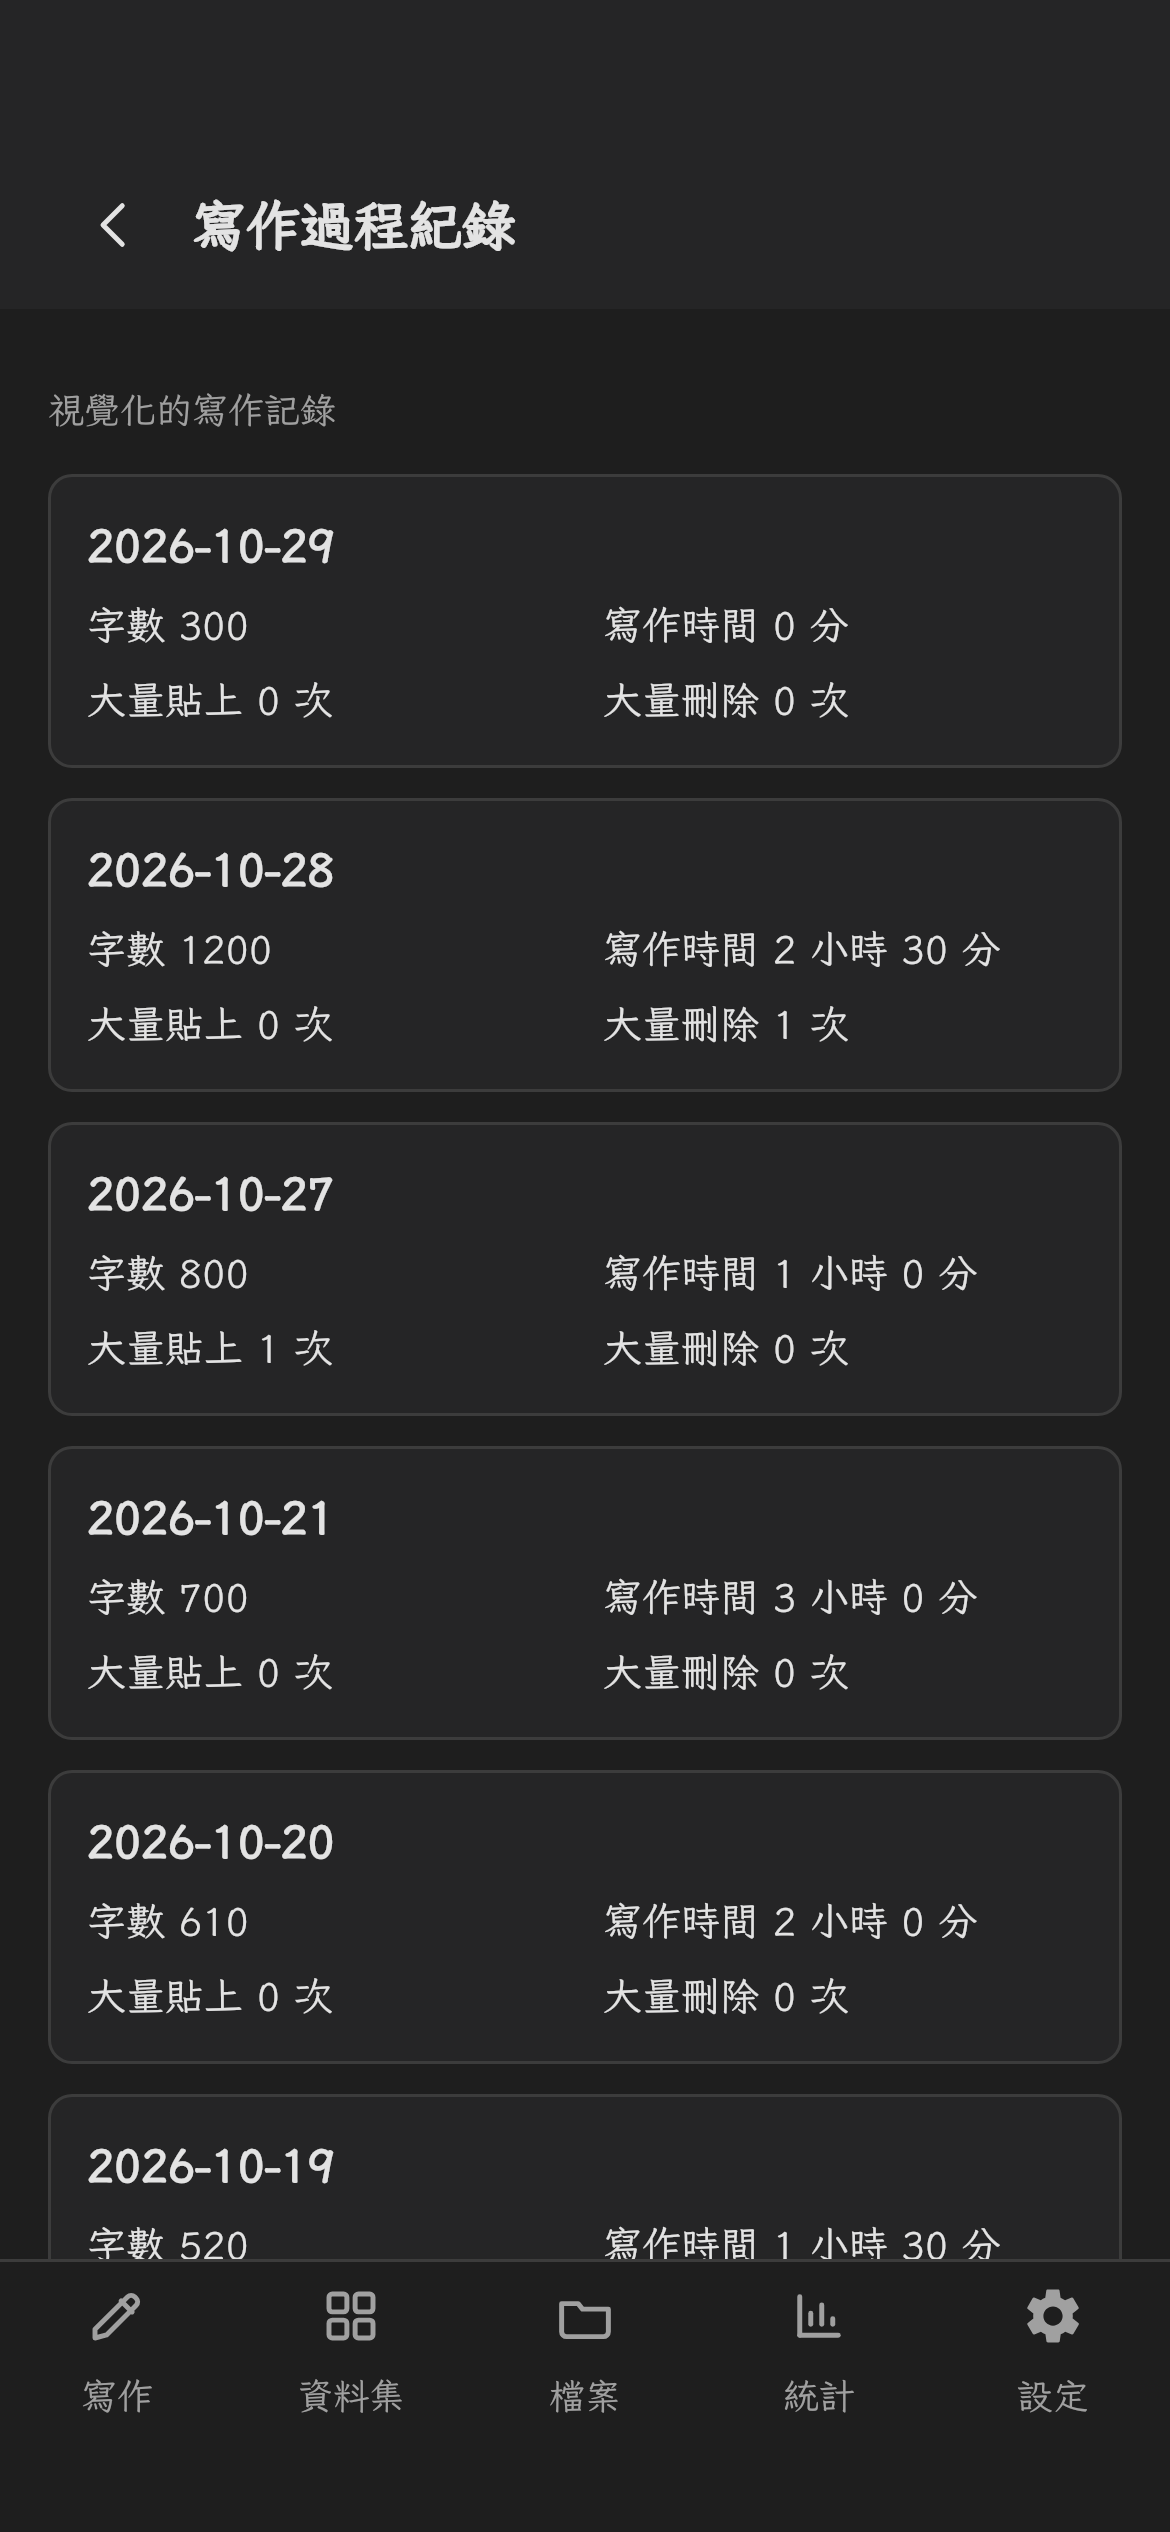
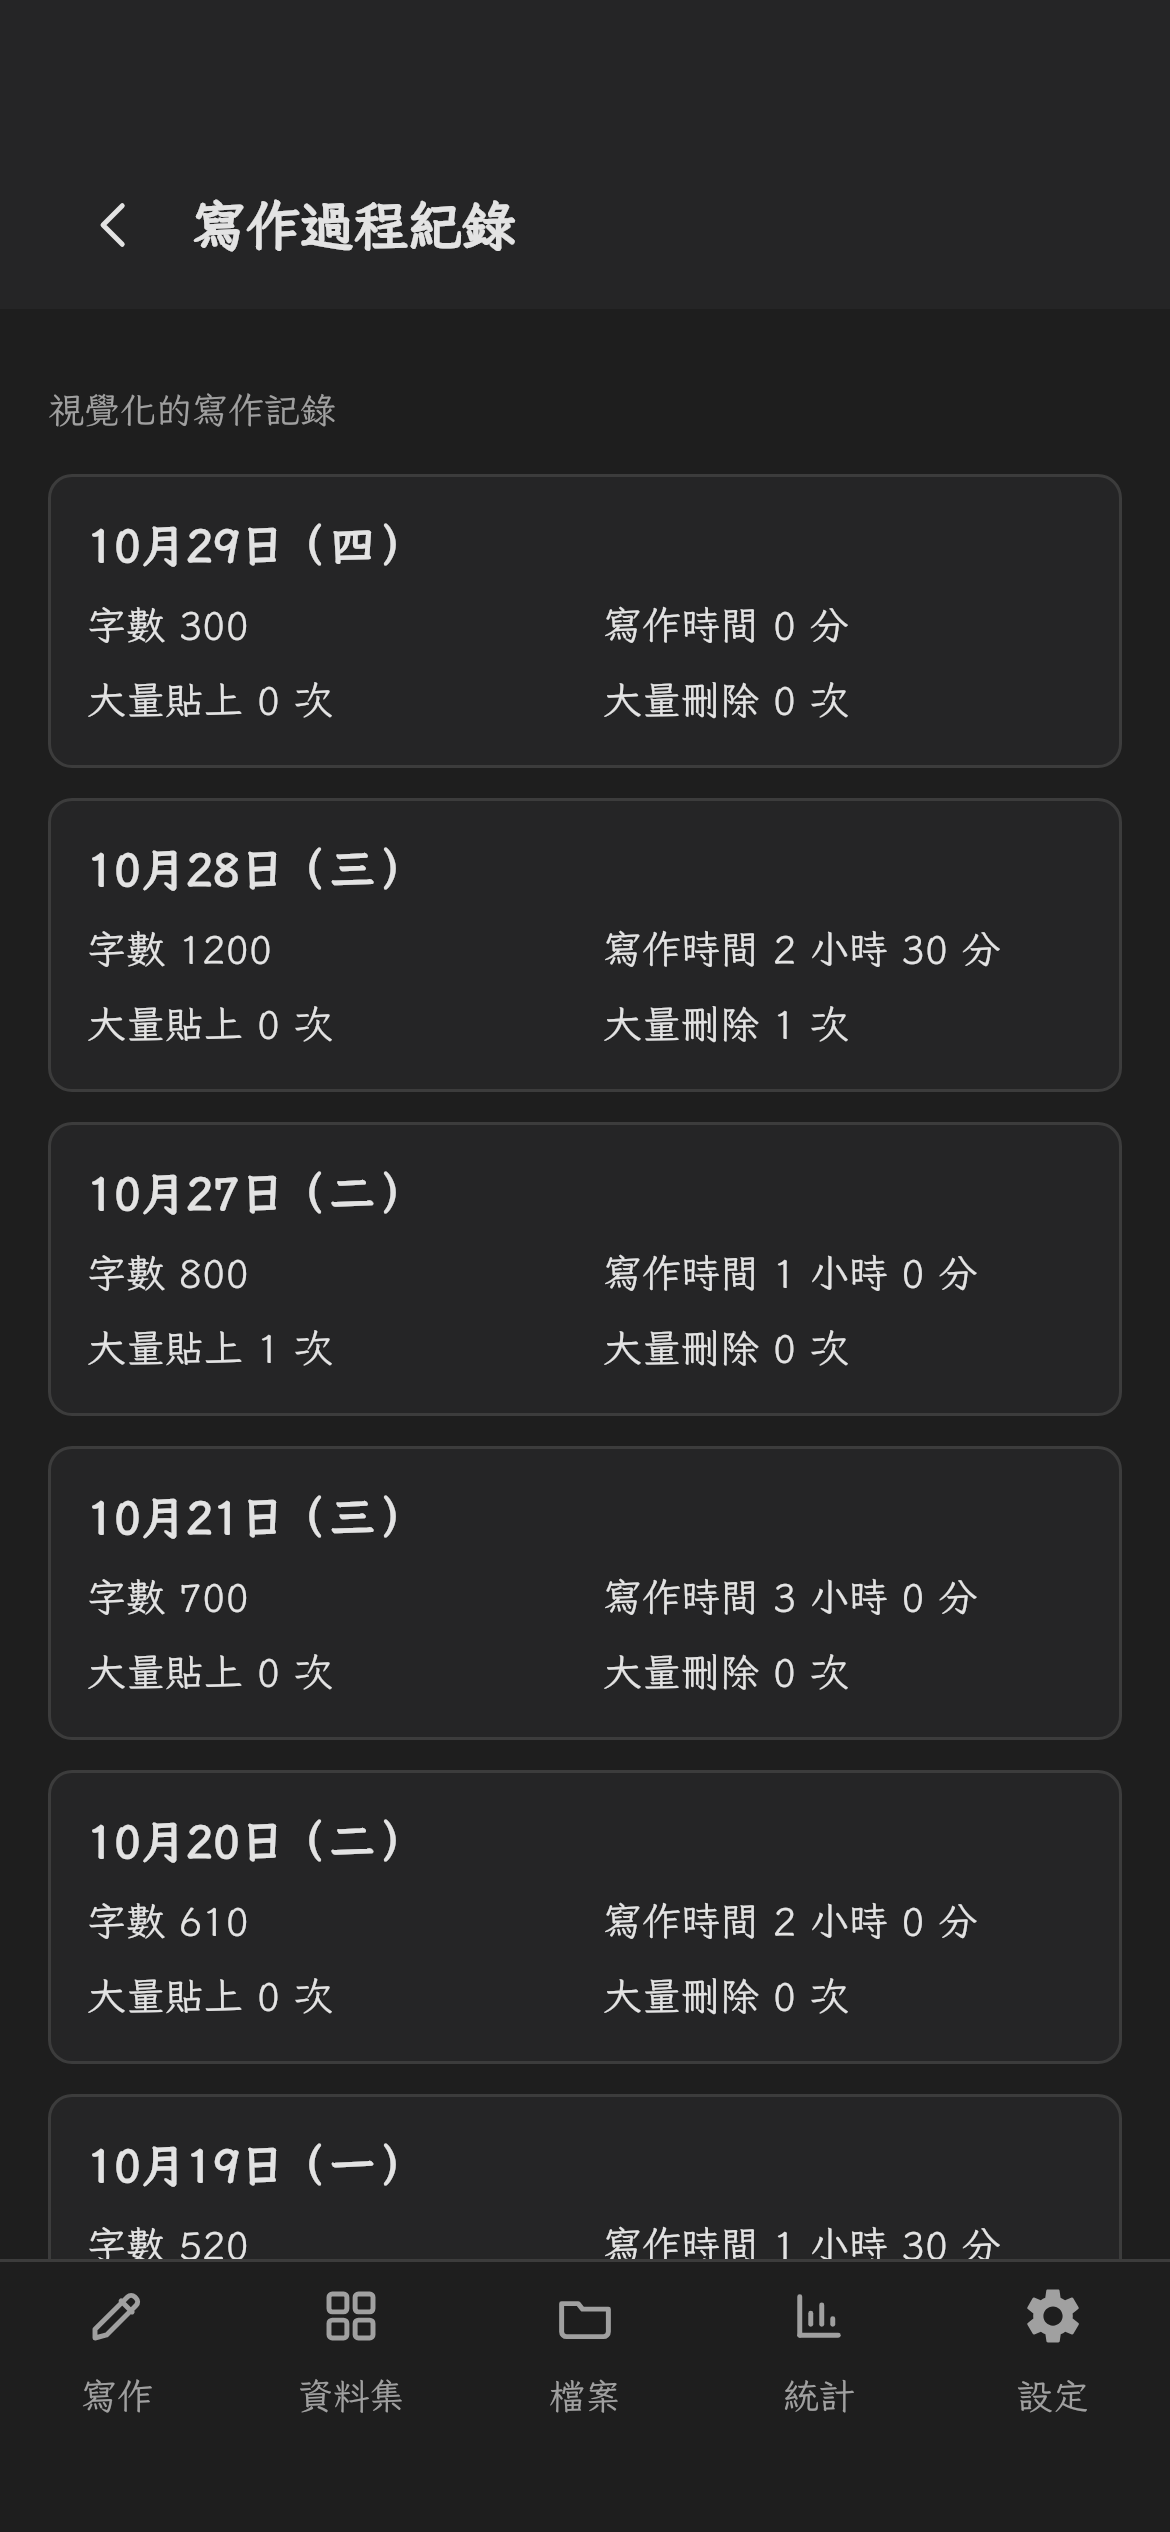
統一第 17 句存檔失敗文案與作家看的日期格式
SAVE_PARTIAL_FAIL 與 SAVE_FATAL_FAIL 相同；新增 formatCalendarDate 用於首頁、紀錄頁與檔案時間，並重拍 01、07 樣品圖。

diff --git a/src/domain/saveClock.ts b/src/domain/saveClock.ts
@@ -1,3 +1,5 @@
+import { formatCalendarDateFromDate } from './formatCalendarDate';
+
 /** 顯示存檔時間（臺灣習慣，24 小時制）。 */
 export function formatClockTime(date: Date): string {
   const pad = (value: number) => String(value).padStart(2, '0');
@@ -12,8 +14,7 @@ export function formatLastExportLabel(timestampMs: number | null, now = new Date
   if (startOfWhen.getTime() === startOfToday.getTime()) {
     return `今天 ${formatClockTime(when)}`;
   }
-  const pad = (value: number) => String(value).padStart(2, '0');
-  return `${when.getFullYear()}/${pad(when.getMonth() + 1)}/${pad(when.getDate())} ${formatClockTime(when)}`;
+  return `${formatCalendarDateFromDate(when, now)} ${formatClockTime(when)}`;
 }
 
 export function formatLastProjectSave(timestampMs: number | null, now = new Date()): string {
@@ -24,8 +25,7 @@ export function formatLastProjectSave(timestampMs: number | null, now = new Date
     when.getMonth() === now.getMonth() &&
     when.getDate() === now.getDate();
   if (sameDay) return formatClockTime(when);
-  const pad = (value: number) => String(value).padStart(2, '0');
-  return `${when.getFullYear()}/${pad(when.getMonth() + 1)}/${pad(when.getDate())} ${formatClockTime(when)}`;
+  return `${formatCalendarDateFromDate(when, now)} ${formatClockTime(when)}`;
 }
 
 export function latestSaveTimestamp(meta: {

diff --git a/src/domain/formatCalendarDate.ts b/src/domain/formatCalendarDate.ts
@@ -1,0 +1,30 @@
+const WEEKDAY = ['日', '一', '二', '三', '四', '五', '六'] as const;
+
+/** 寫作日 YYYY-MM-DD →「7月2日（四）」；跨年才加年份。 */
+export function formatCalendarDate(dayKey: string, now = new Date()): string {
+  const match = /^(\d{4})-(\d{2})-(\d{2})$/.exec(dayKey);
+  if (!match) return dayKey;
+  const year = Number(match[1]);
+  const month = Number(match[2]);
+  const day = Number(match[3]);
+  const weekday = WEEKDAY[new Date(year, month - 1, day).getDay()];
+  if (year === now.getFullYear()) {
+    return `${month}月${day}日（${weekday}）`;
+  }
+  return `${year}年${month}月${day}日（${weekday}）`;
+}
+
+/** 首頁「上次編輯」：ISO 日改口語，其餘（剛剛、3 天前）原樣。 */
+export function formatProjectUpdatedLabel(label: string, now = new Date()): string {
+  if (/^\d{4}-\d{2}-\d{2}$/.test(label)) {
+    return formatCalendarDate(label, now);
+  }
+  return label;
+}
+
+/** 由 Date 的本地年月日組成寫作日字串再格式化。 */
+export function formatCalendarDateFromDate(date: Date, now = new Date()): string {
+  const pad = (value: number) => String(value).padStart(2, '0');
+  const dayKey = `${date.getFullYear()}-${pad(date.getMonth() + 1)}-${pad(date.getDate())}`;
+  return formatCalendarDate(dayKey, now);
+}

diff --git a/src/domain/formatCalendarDate.test.ts b/src/domain/formatCalendarDate.test.ts
@@ -1,0 +1,28 @@
+import { describe, expect, it } from 'vitest';
+import {
+  formatCalendarDate,
+  formatCalendarDateFromDate,
+  formatProjectUpdatedLabel,
+} from './formatCalendarDate';
+
+describe('作家看的日期格式', () => {
+  const now = new Date(2026, 9, 29); // 2026-10-29 本地
+
+  it('同年不寫年份，星期要對', () => {
+    expect(formatCalendarDate('2026-07-02', now)).toBe('7月2日（四）');
+    expect(formatCalendarDate('2026-10-29', now)).toBe('10月29日（四）');
+  });
+
+  it('跨年才加年份', () => {
+    expect(formatCalendarDate('2025-12-30', now)).toBe('2025年12月30日（二）');
+  });
+
+  it('首頁標籤只轉 ISO 日', () => {
+    expect(formatProjectUpdatedLabel('2026-07-02', now)).toBe('7月2日（四）');
+    expect(formatProjectUpdatedLabel('12 分鐘前', now)).toBe('12 分鐘前');
+  });
+
+  it('由 Date 格式化', () => {
+    expect(formatCalendarDateFromDate(new Date(2026, 6, 2), now)).toBe('7月2日（四）');
+  });
+});

diff --git a/src/screens/HomeScreen.tsx b/src/screens/HomeScreen.tsx
@@ -2,6 +2,7 @@ import { useRef, useState } from 'react';
 import { Link, useNavigate } from 'react-router-dom';
 import { BookIcon, CloseIcon, FolderIcon, PlusIcon, RefreshIcon } from '../components/Icons';
 import { OPEN_DB_FAIL } from '../copy/userFacing';
+import { formatProjectUpdatedLabel } from '../domain/formatCalendarDate';
 import { canPickLocalFiles } from '../db/browserDisk';
 import { useSample } from '../state/sampleStore';
 
@@ -44,7 +45,7 @@ export function HomeScreen() {
                   <span>
                     <strong>{project.title}</strong>
                     <small>
-                      上次編輯：{project.updatedLabel}　·　字數：{bookWords(project.id)}
+                      上次編輯：{formatProjectUpdatedLabel(project.updatedLabel)}　·　字數：{bookWords(project.id)}
                     </small>
                   </span>
                 </Link>

diff --git a/src/screens/LogsScreen.tsx b/src/screens/LogsScreen.tsx
@@ -1,6 +1,7 @@
 import { useNavigate, useParams } from 'react-router-dom';
 import { BackIcon } from '../components/Icons';
 import { MANUSCRIPT_NOT_FOUND } from '../copy/userFacing';
+import { formatCalendarDate } from '../domain/formatCalendarDate';
 import { formatDuration } from '../domain/writingLog';
 import { useProject, useSample } from '../state/sampleStore';
 
@@ -25,7 +26,7 @@ export function LogsScreen() {
         <ul className="log-list">
           {rows.map((row) => (
             <li key={row.id} className="log-card">
-              <strong>{row.date}</strong>
+              <strong>{formatCalendarDate(row.date)}</strong>
               <span>字數 {row.word_count}</span>
               <span>寫作時間 {formatDuration(row.duration)}</span>
               <span>大量貼上 {row.paste_large_count} 次</span>

diff --git a/src/copy/userFacing.test.ts b/src/copy/userFacing.test.ts
@@ -3,6 +3,7 @@ import {
   FEATURE_PREPARING,
   OPEN_DB_FAIL,
   SAVE_FATAL_FAIL,
+  SAVE_PARTIAL_FAIL,
   SAVE_PERMISSION_DENIED,
 } from './userFacing';
 
@@ -12,5 +13,6 @@ describe('九方審過的文案', () => {
     expect(FEATURE_PREPARING).toBe('功能還在準備中。');
     expect(SAVE_PERMISSION_DENIED).toBe('沒有寫入權限，請再按一次並選「允許」。');
     expect(SAVE_FATAL_FAIL).toBe('存檔失敗。稿件目前仍在 APP 暫存空間。');
+    expect(SAVE_PARTIAL_FAIL).toBe(SAVE_FATAL_FAIL);
   });
 });

diff --git a/src/domain/saveClock.test.ts b/src/domain/saveClock.test.ts
@@ -12,6 +12,12 @@ describe('存檔時間顯示', () => {
     expect(formatLastExportLabel(null)).toBe('還沒另存過');
   });
 
+  it('非今天的另存會用月日與星期', () => {
+    const now = new Date('2026-10-29T14:00:00');
+    const stamp = new Date('2026-07-02T09:05:00').getTime();
+    expect(formatLastExportLabel(stamp, now)).toBe('7月2日（四） 09:05');
+  });
+
   it('最後存檔取自動與手動較晚者', () => {
     expect(
       latestSaveTimestamp({ lastAutoSaveMs: 100, lastManualSaveMs: 200 }),

diff --git a/src/copy/userFacing.ts b/src/copy/userFacing.ts
@@ -13,7 +13,7 @@ export const FEATURE_PREPARING = '功能還在準備中。';
 
 export const SAVE_PERMISSION_DENIED = '沒有寫入權限，請再按一次並選「允許」。';
 
-export const SAVE_PARTIAL_FAIL = '沒存進原檔，原檔沒動。稿子還在 App 暫存空間。';
+export const SAVE_PARTIAL_FAIL = '存檔失敗。稿件目前仍在 APP 暫存空間。';
 
 export const SAVE_FATAL_FAIL = '存檔失敗。稿件目前仍在 APP 暫存空間。';
 

diff --git a/src/db/saveProject.test.ts b/src/db/saveProject.test.ts
@@ -113,6 +113,7 @@ describe('儲存專案', () => {
     await box.store.save('book-1', { filename: '原稿.db', file });
     const outcome = await saveProjectToPlace(box.env, 'book-1', NEXT, '書名.db');
     expect(outcome).toEqual({ kind: 'write-failed', restored: true });
+    expect(saveNotice(outcome)).toBe('存檔失敗。稿件目前仍在 APP 暫存空間。');
     expect(Array.from(file.bytes)).toEqual(Array.from(ORIGINAL));
   });
 
